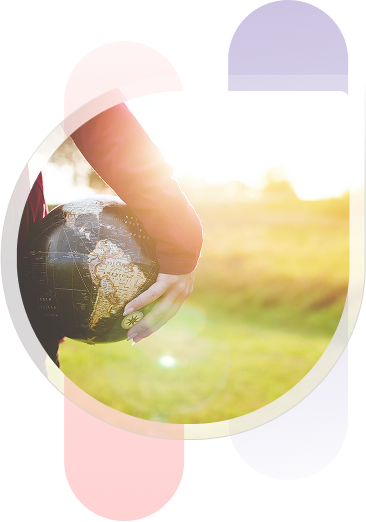
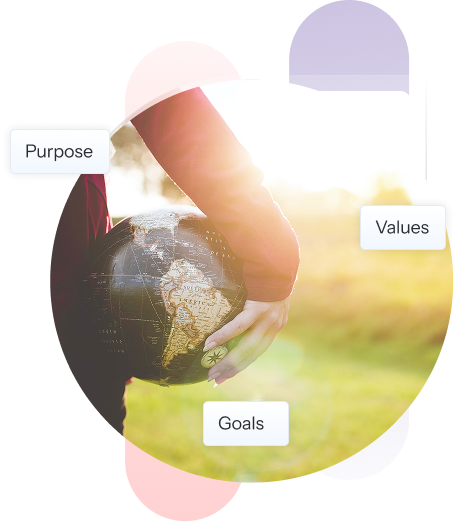
commit

diff --git a/src/components/service/service.scss b/src/components/service/service.scss
@@ -1,5 +1,5 @@
-@use "../../styles/varibles" as *;
-@use "../../styles/mixin" as *;
+@use "../../styles/varibles"as *;
+@use "../../styles/mixin"as *;
 
 .service {
     &-subtitle {
@@ -20,10 +20,18 @@
         &:nth-child(even) {
             flex-direction: row-reverse;
             margin-bottom: 250px;
+
+            @media (max-width: 1100px) {
+                margin-bottom: 100px;
+            }
         }
 
         &:nth-child(even):not(:first-child) {
             margin-top: 250px;
+
+            @media (max-width: 1100px) {
+                margin-top: 100px;
+            }
         }
 
         .content {
@@ -36,13 +44,28 @@
                 font-size: 28px;
                 line-height: 1.14;
                 color: $colorTitle;
+
+                @media (max-width: 1100px) {
+                    text-align: center;
+                }
             }
 
-            p{
-                font-size: 40px;
+            p {
+                font-size: clamp(18px, 3vw, 40px);
                 line-height: 1.4;
                 color: #707d8e;
                 margin: 15px 0 50px;
+
+                @media (max-width: 1100px) {
+                    text-align: center;
+                }
+            }
+
+            @media (max-width: 1100px) {
+                display: flex;
+                flex-direction: column;
+                align-items: center;
+                padding: 20px 15px;
             }
         }
 
@@ -57,7 +80,7 @@
             gap: 10px;
             margin-bottom: 50px;
 
-            li{
+            li {
                 font-size: 14px;
                 line-height: 143%;
                 color: #000;
@@ -65,12 +88,25 @@
                 border-radius: 100px;
                 padding: 10px 20px;
             }
+
+            @media (max-width: 1100px) {
+                justify-content: center;
+            }
         }
 
         figure {
             padding-right: 54px;
             max-width: 630px;
             width: 100%;
+
+            @media (max-width: 1100px) {
+                padding-right: 0;
+            }
+        }
+
+        @media (max-width: 1100px) {
+            flex-wrap: wrap-reverse;
+            justify-content: center;
         }
     }
 }

diff --git a/src/components/delivered/delivered.scss b/src/components/delivered/delivered.scss
@@ -1,11 +1,12 @@
-@use "../../styles/varibles" as *;
-@use "../../styles/mixin" as *;
+@use "../../styles/varibles"as *;
+@use "../../styles/mixin"as *;
 
 .delivered {
     &-wrapper {
         display: flex;
         gap: 32px;
         justify-content: center;
+        flex-wrap: wrap;
     }
 
     &-idea {
@@ -14,6 +15,8 @@
         padding: 24px 24px 32px 24px;
         box-shadow: 0 4px 6px -2px rgba(16, 24, 40, 0.03), 0 12px 16px -4px rgba(16, 24, 40, 0.08);
         background: #fff;
+        max-width: 410px;
+        width: 100%;
 
         .title {
             font-weight: 600;
@@ -24,6 +27,10 @@
             margin: 32px 0 12px;
             display: block;
             text-align: left;
+
+            @media (max-width: 450px) {
+                text-align: center;
+            }
         }
 
         .text {
@@ -31,6 +38,10 @@
             letter-spacing: -0.01em;
             color: #667085;
             margin-bottom: 68px;
+
+            @media (max-width: 450px) {
+                text-align: center;
+            }
         }
 
         .tabs {
@@ -44,9 +55,15 @@
                 border-radius: 10px;
                 padding: 6px 10px;
                 border: 1px solid #7f7f7f;
-                
+
+            }
+
+            @media (max-width: 450px) {
+                justify-content: center;
             }
         }
+
+
     }
 
 }

diff --git a/src/components/mission/Mission.jsx b/src/components/mission/Mission.jsx
@@ -10,13 +10,6 @@ const Mission = () => {
                 <div className="experience-content">
                     <div className="experience-img__about">
                         <img src={statement} alt="statment" />
-                        <ul className="experience-list" >
-                            {experienceValues && (
-                                experienceValues.map(item => (
-                                    <li key={item.id} className="experience-item" id={item.id}>{item.label}</li>
-                                ))
-                            )}
-                        </ul>
                     </div>
                     <div className="content">
                         <h3>Vision Statement</h3>
@@ -27,11 +20,6 @@ const Mission = () => {
                 <div className="experience-content experience-content__about">
                     <div className="experience-content__bottom">
                         <figure><img src={mision} alt="mision" /></figure>
-                        <ul className="experience-list">
-                            <li className="experience-item" id="Values">Values</li>
-                            <li className="experience-item" id="Goals">Goals</li>
-                            <li className="experience-item" id="Purpose">Purpose</li>
-                        </ul>
                     </div>
 
 

diff --git a/src/components/footer/footer.scss b/src/components/footer/footer.scss
@@ -12,6 +12,12 @@
             flex-wrap: wrap;
             gap: 50px;
         }
+
+        @media (max-width: 450px) {
+            gap: 50px;
+            flex-direction: column;
+            
+        }
     }
 
     .logo figure {
@@ -65,12 +71,21 @@
         .block {
             display: flex;
             gap: 50px;
+
+            @media (max-width: 450px) {
+                gap: 25px;
+                flex-direction: column;
+            }
         }
 
         @media (max-width: 1350px) {
             justify-content: center;
             flex-wrap: wrap;
             gap: 50px;
+        }
+
+        @media (max-width: 590px) {
+            justify-content: flex-start;
         }
 
 
@@ -136,6 +151,16 @@
             li {
                 margin-bottom: 0;
             }
+
+            @media (max-width: 450px) {
+                flex-direction: column;
+                gap: 25px;
+            }
+        }
+
+        @media (max-width: 590px) {
+            flex-wrap: wrap;
+            gap: 25px;
         }
     }
 

diff --git a/src/components/productIdea/productIdea.scss b/src/components/productIdea/productIdea.scss
@@ -1,11 +1,13 @@
-@use "../../styles/varibles" as *;
-@use "../../styles/mixin" as *;
+@use "../../styles/varibles"as *;
+@use "../../styles/mixin"as *;
 
 .productIdea {
 
     &-wrapper {
         display: flex;
         gap: 20px;
+        justify-content: center;
+        flex-wrap: wrap;
     }
 
     &-idea {
@@ -42,7 +44,12 @@
             text-align: center;
             left: 50%;
             transform: translateX(-50%);
-            width: 372px;
+            max-width: 372px;
+            width: 100%;
+
+            @media (max-width: 450px) {
+                padding: 0 15px;
+            }
         }
     }
 
@@ -90,7 +97,7 @@
         border-radius: 20px;
         transition: .3s linear;
         cursor: pointer;
-        
+
 
         img {
             border-radius: 20px;

diff --git a/src/components/mission/mission.scss b/src/components/mission/mission.scss
@@ -1,5 +1,5 @@
-@use "../../styles/varibles" as *;
-@use "../../styles/mixin" as *;
+@use "../../styles/varibles"as *;
+@use "../../styles/mixin"as *;
 
 .experience {
     padding: 150px 0;
@@ -26,7 +26,6 @@
         }
 
 
-
         p {
             margin-top: 30px;
             width: 100%;
@@ -35,6 +34,13 @@
             line-height: 1.44;
             letter-spacing: -0.01em;
             color: $colorTitle;
+        }
+
+        @media (max-width: 1150px) {
+            flex-direction: column;
+            flex-wrap: wrap;
+            justify-content: center;
+
         }
 
     }

diff --git a/src/pages/AboutPage.jsx b/src/pages/AboutPage.jsx
@@ -24,10 +24,10 @@ const AboutPage = () => {
         showScrollLink='scroll for more'
       />
       <Mission/>
-      <Offer/>
+      {/* <Offer/>
       <ProductIdea/>
       <Delivered/>
-      <Industry/>
+      <Industry/> */}
 
     </main>
   )

diff --git a/src/pages/HomePage.jsx b/src/pages/HomePage.jsx
@@ -36,9 +36,8 @@ const HomePage = () => {
       <NotSure />
       <Experience />
       <ProductIdea />
-      {/* 
       <Delivered />
-      <NotSureCustom /> */}
+      <NotSureCustom />
     </>
   )
 }

diff --git a/src/components/header/header.scss b/src/components/header/header.scss
@@ -84,7 +84,7 @@
 
       &.active {
         top: -30px;
-        height: 100vh;
+        height: 75vh;
 
       }
     }
